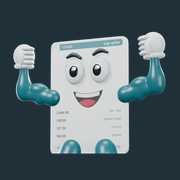
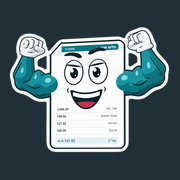
Mascot redesign: drawn toon style (ink outline, cel shading, detailed hands and legs). Sticker halo for dark grounds; mascot in the landing hero (bust on phones); QA overlap test at 7 widths

diff --git a/index.html b/index.html
@@ -83,6 +83,10 @@ a { color: inherit; }
 .pill svg { width: 16px; height: 16px; fill: none; stroke: currentColor; stroke-width: 2; stroke-linecap: round; stroke-linejoin: round; transform: scaleX(-1); }
 .ghost { background: none; border: 0; color: #d6e6ea; font-weight: 500; text-decoration: underline; text-underline-offset: 4px; text-decoration-color: rgb(214 230 234 / .4); padding: 8px 4px; }
 .hero .tags { display: flex; gap: 8px; flex-wrap: wrap; position: relative; z-index: 1; }
+.hero-mascot { position: absolute; inset-inline-end: clamp(18px, 6%, 90px); bottom: -14px; height: 112%; max-height: 340px; aspect-ratio: 1; pointer-events: none; z-index: 0; }
+.hero-mascot img { width: 100%; height: 100%; object-fit: contain; display: block; filter: drop-shadow(0 16px 22px rgb(0 0 0 / .35)); }
+@media (max-width: 1100px) { .hero-mascot { inset-inline-end: 6px; top: 10px; bottom: auto; height: 104px; max-height: none; } .hero-mascot img { filter: drop-shadow(0 8px 12px rgb(0 0 0 / .3)); } .hero .tags { padding-inline-end: 100px; } }
+@media (prefers-reduced-motion: no-preference) { .hero-mascot img { animation: mascotIn .7s cubic-bezier(.2, .9, .3, 1.2) .45s both; transform-origin: 50% 90%; } @keyframes mascotIn { from { opacity: 0; transform: translateY(26px) scale(.86); } to { opacity: 1; transform: none; } } }
 
 /* the notice card: only there when there is an active update */
 .updates { grid-column: span 4; }
@@ -247,6 +251,7 @@ a { color: inherit; }
     <section class="view is-on" id="v-home" aria-label="בית" tabindex="-1">
       <div class="bento">
         <article class="card hero" style="--i:0">
+          <picture class="hero-mascot" aria-hidden="true"><source media="(max-width: 1100px)" srcset="img/mascot-bust.webp"><img src="img/mascot.webp" width="512" height="512" alt="" decoding="async"></picture>
           <div class="tags"><span class="chip dark">לעובדי שמירה ואבטחה</span><span class="chip dark">בחינם</span></div>
           <h1 id="h1"><span class="w" style="--k:0">תלושי</span></h1>
           <p>המידע נשמר אצלך בלבד. התלוש נקרא בטלפון, מושווה למשמרות שעבדת, ורואים כמה חסר, אם חסר.</p>
